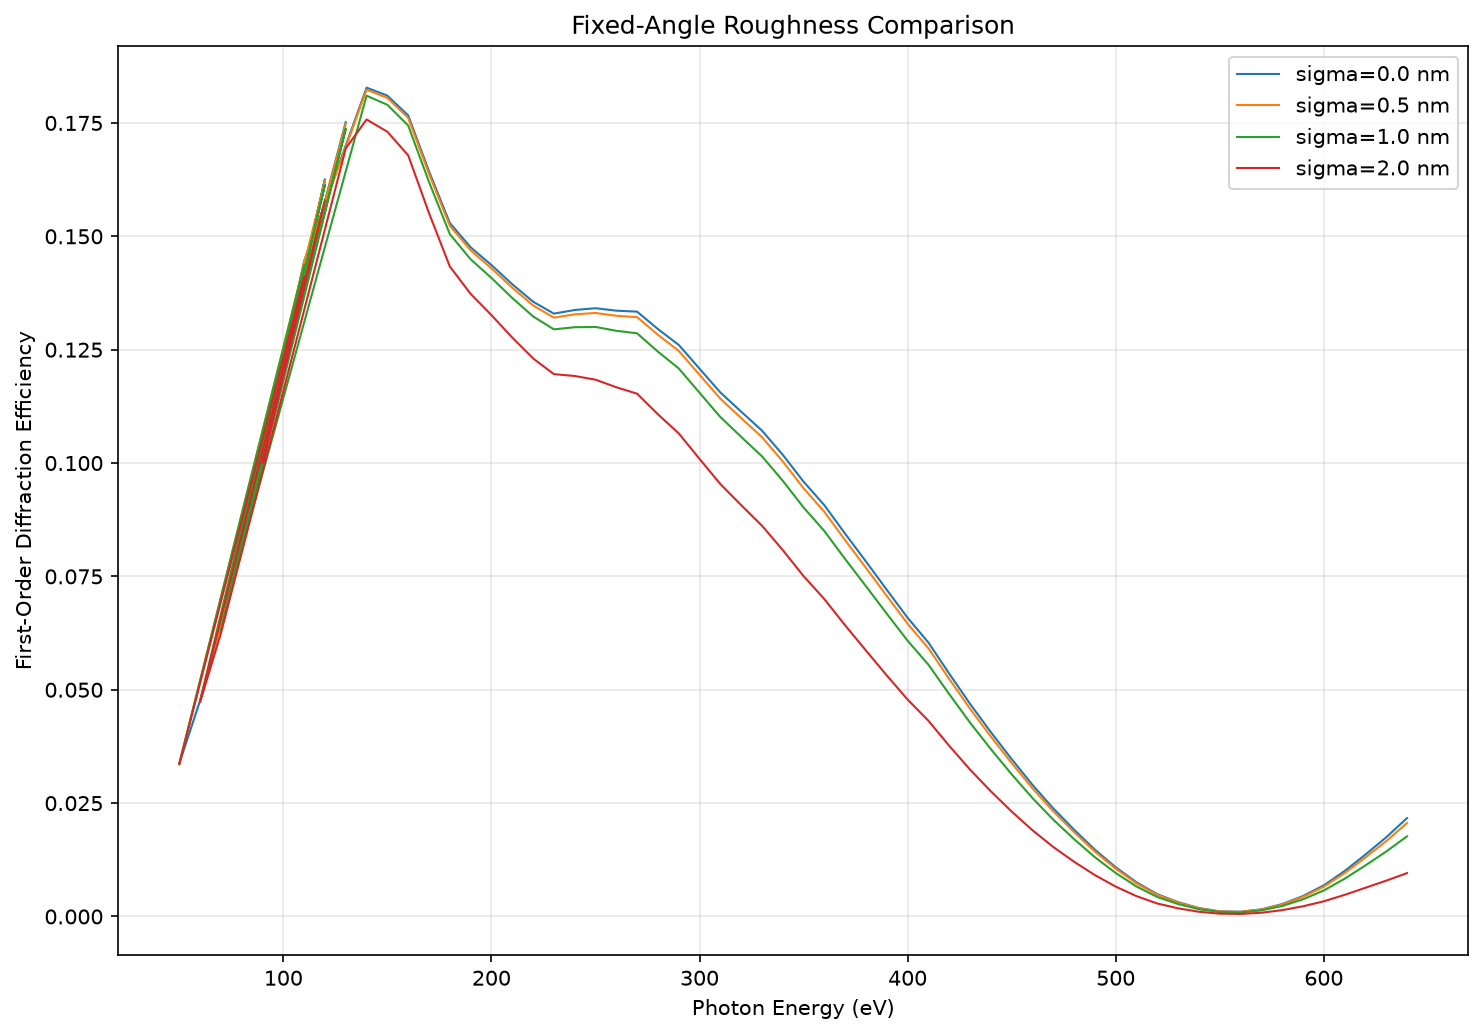
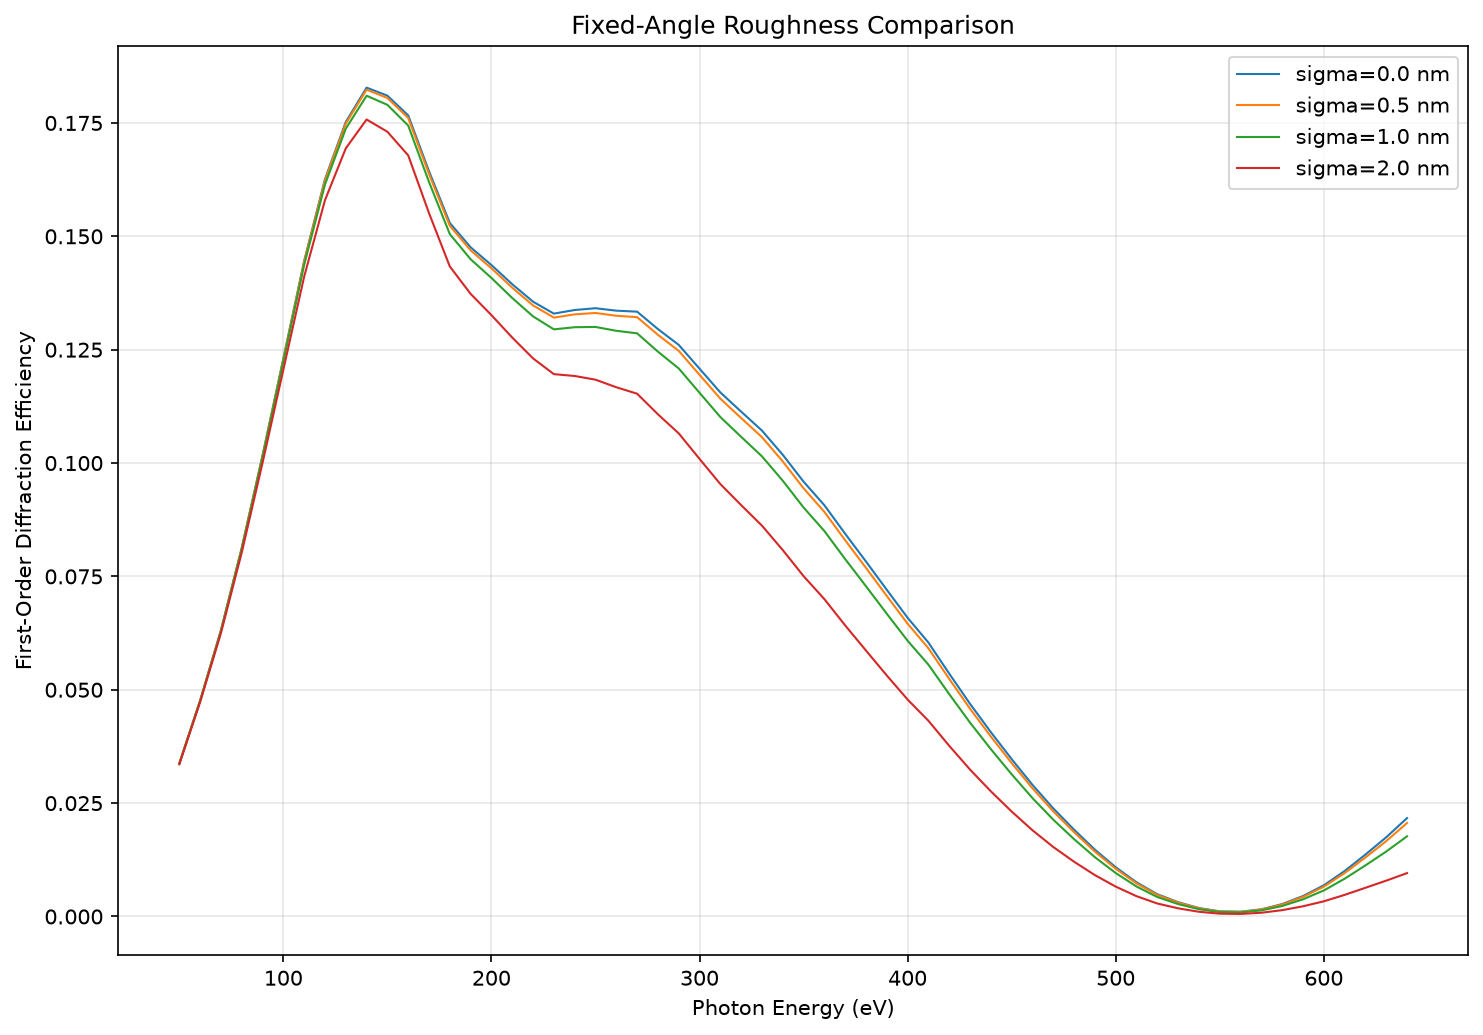
Sort roughness comparison curves by energy

Changed region(s): [[0.1551, 0.0928, 0.2481, 0.5565], [0.1241, 0.5565, 0.1551, 0.7111]]

diff --git a/examples/simulation/fixed_angle_roughness/comparison_fixed_angle_roughness.py b/examples/simulation/fixed_angle_roughness/comparison_fixed_angle_roughness.py
@@ -23,15 +23,16 @@ def _label_from_csv_path(path: Path) -> str:
 def _load_first_order_series(csv_path: Path) -> tuple[list[float], list[float]]:
     """Load energy and first-order efficiency from one all-orders CSV file."""
 
-    energies_ev: list[float] = []
-    efficiencies: list[float] = []
+    samples: list[tuple[float, float]] = []
     with csv_path.open("r", encoding="utf-8", newline="") as handle:
         reader = csv.DictReader(handle)
         for row in reader:
             if int(row["order"]) != -1:
                 continue
-            energies_ev.append(float(row["energy_ev"]))
-            efficiencies.append(float(row["efficiency"]))
+            samples.append((float(row["energy_ev"]), float(row["efficiency"])))
+    samples.sort(key=lambda item: item[0])
+    energies_ev = [energy_ev for energy_ev, _efficiency in samples]
+    efficiencies = [efficiency for _energy_ev, efficiency in samples]
     return energies_ev, efficiencies
 
 
